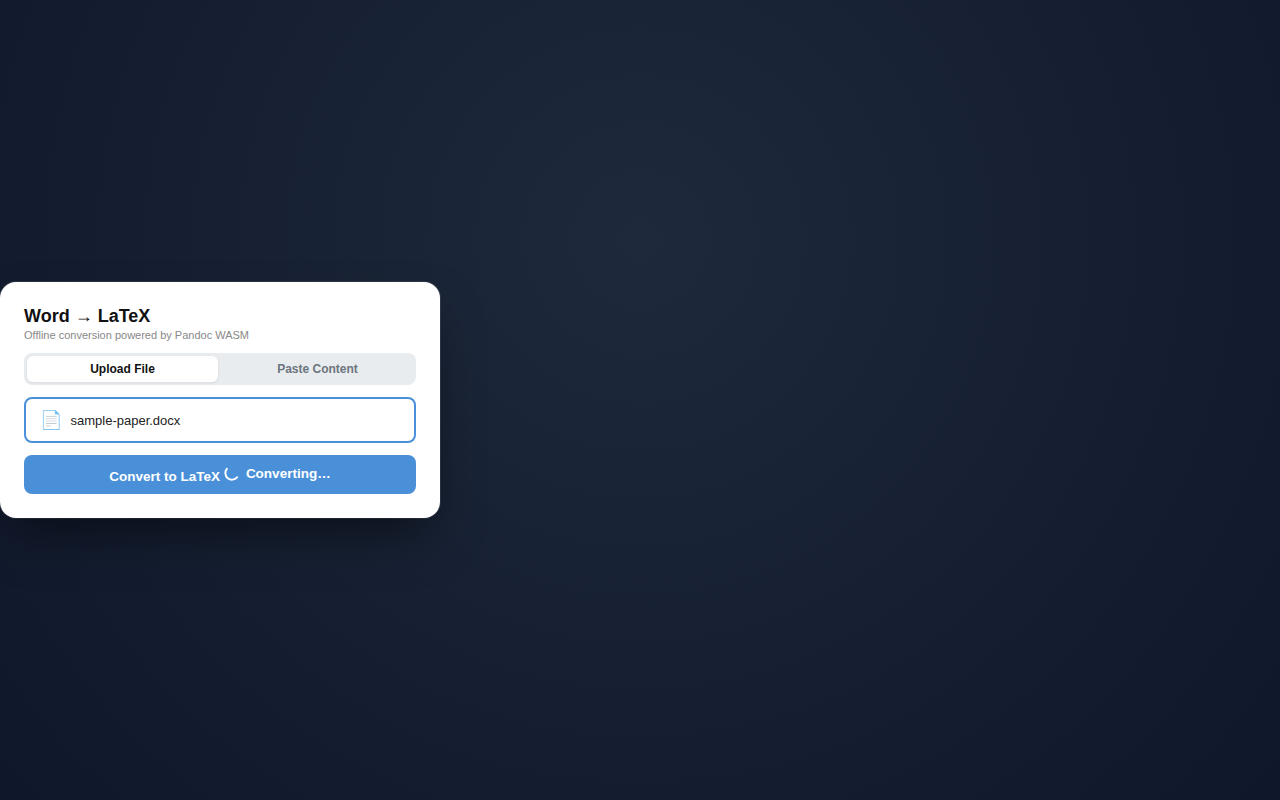
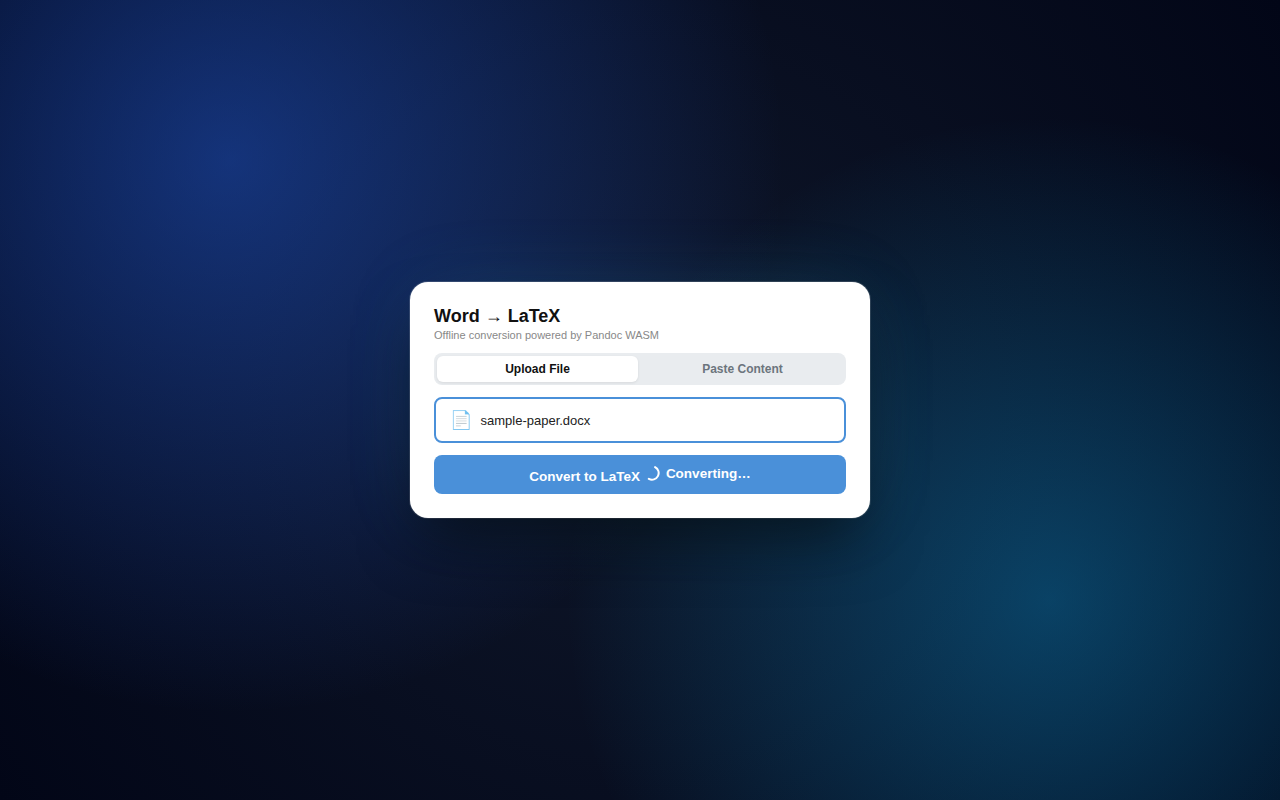
Center screenshots with modern dark mesh backdrop and enhance landing page display

diff --git a/index.html b/index.html
@@ -241,19 +241,27 @@
 
     .step-img-wrap {
       width: 100%;
-      height: 220px;
-      background: #0f172a;
+      height: 250px;
+      background: radial-gradient(circle at 50% 50%, #1e293b 0%, #0f172a 100%);
       overflow: hidden;
       border-bottom: 1px solid var(--border);
       position: relative;
+      display: flex;
+      align-items: center;
+      justify-content: center;
     }
 
     .step-img-wrap img {
       width: 100%;
       height: 100%;
-      object-fit: cover;
+      object-fit: contain;
       object-position: center;
       display: block;
+      transition: transform 0.3s ease;
+    }
+
+    .step-card:hover .step-img-wrap img {
+      transform: scale(1.03);
     }
 
     .step-body {

diff --git a/landing-page.html b/landing-page.html
@@ -241,19 +241,27 @@
 
     .step-img-wrap {
       width: 100%;
-      height: 220px;
-      background: #0f172a;
+      height: 250px;
+      background: radial-gradient(circle at 50% 50%, #1e293b 0%, #0f172a 100%);
       overflow: hidden;
       border-bottom: 1px solid var(--border);
       position: relative;
+      display: flex;
+      align-items: center;
+      justify-content: center;
     }
 
     .step-img-wrap img {
       width: 100%;
       height: 100%;
-      object-fit: cover;
+      object-fit: contain;
       object-position: center;
       display: block;
+      transition: transform 0.3s ease;
+    }
+
+    .step-card:hover .step-img-wrap img {
+      transform: scale(1.03);
     }
 
     .step-body {
